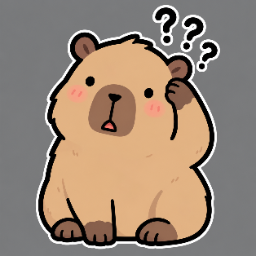
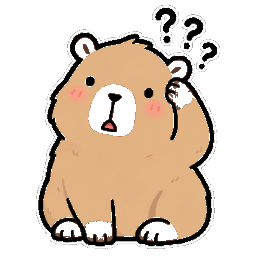
Capiverso e Capistop ganham fundo branco e cards próprios
Ícones com fundo branco (igual o Capibatman) em vez do cinza das
figurinhas originais. Na Lojinha, os dois jogos agora aparecem como
cards separados logo abaixo do Capibatman (sem a etapa intermediária
de "escolher o jogo") — cada um já abre direto a tela de criar/entrar
na sala daquele jogo específico.

diff --git a/js/app.js b/js/app.js
@@ -2645,15 +2645,8 @@ async function renderFriendsShop() {
         </div>
       </div>
     </div>
-    <div class="card" id="btn-open-game-hub" style="cursor:pointer;">
-      <div class="row" style="align-items:center; gap:10px;">
-        <div class="rm-ic cards" style="width:48px; height:48px;">${ROOM_GAME_ICON.cartas}</div>
-        <div style="flex:1;">
-          <div class="card-title" style="font-size:15px; margin-bottom:0;">Jogar com amigos</div>
-          <div class="hint-text" style="margin:0;">${GAME_LABEL.cartas} e ${GAME_LABEL.stop} · crie uma sala e chame a turma</div>
-        </div>
-      </div>
-    </div>
+    ${multiplayerGameCardHTML("cartas", "btn-open-capiverso-friends", "fique sem cartas antes dos outros")}
+    ${multiplayerGameCardHTML("stop", "btn-open-capistop-friends", "uma letra, pouco tempo, muitas respostas")}
 
     ${Object.entries(FRIEND_PERK_CATEGORIES).map(([catId, cat]) => `
       <div class="section-title">${cat.emoji} ${cat.label}</div>
@@ -2683,7 +2676,8 @@ async function renderFriendsShop() {
     ` : ""}
   `;
   $("#btn-open-star-battle-friends").addEventListener("click", () => renderStarBattleGame("amigos"));
-  $("#btn-open-game-hub").addEventListener("click", () => renderGameHub("amigos"));
+  $("#btn-open-capiverso-friends").addEventListener("click", () => renderGameHub("amigos", "cartas"));
+  $("#btn-open-capistop-friends").addEventListener("click", () => renderGameHub("amigos", "stop"));
   $("#friends-new-perk-btn").addEventListener("click", openNewCustomPerkModal);
   view.querySelectorAll("[data-redeem]").forEach((btn) => {
     btn.addEventListener("click", async () => {
@@ -2841,7 +2835,10 @@ function closeRoomChannels() {
   State.roomView = null;
 }
 
-async function renderGameHub(ctx) {
+// preselectedGame ("cartas"/"stop"): pulado o "escolha o jogo" e vai direto pra tela de
+// criar/entrar na sala daquele jogo — usado quando Capiverso/Capistop já aparecem como cards
+// separados na Lojinha, em vez de um hub combinado. Continua checando sala ativa primeiro.
+async function renderGameHub(ctx, preselectedGame) {
   if (ctx) State.roomCtx = ctx;
   const view = roomViewEl();
   view.innerHTML = `<div class="center-note">Carregando...</div>`;
@@ -2872,6 +2869,18 @@ async function renderGameHub(ctx) {
       return;
     }
   } catch (e) { /* sem sala ativa: segue pro hub normal */ }
+
+  if (preselectedGame) {
+    view.innerHTML = `
+      <div style="display:flex; align-items:center; gap:10px; margin-bottom:14px;">
+        <button class="btn btn-ghost btn-sm" id="btn-gamehub-back" style="flex:none; padding:9px 12px;">← Voltar</button>
+        <h2 style="font-family:'Baloo 2', sans-serif; font-size:19px; margin:0;">${gameIconImg(preselectedGame, 22)} ${GAME_LABEL[preselectedGame]}</h2>
+      </div>
+    `;
+    $("#btn-gamehub-back").addEventListener("click", () => roomBack());
+    openGameChoiceModal(preselectedGame);
+    return;
+  }
 
   view.innerHTML = `
     <div style="display:flex; align-items:center; gap:10px; margin-bottom:14px;">
@@ -6848,6 +6857,22 @@ async function renderShopHub() {
   });
 }
 
+// card de jogo multiplayer (Capiverso/Capistop) no mesmo estilo do card do Capibatman — usado
+// tanto no modo casal quanto na turma. btnId precisa ser único na tela.
+function multiplayerGameCardHTML(gameType, btnId, subtitle) {
+  return `
+    <div class="card" id="${btnId}" style="cursor:pointer;">
+      <div class="row" style="align-items:center; gap:10px;">
+        <img src="icons/${gameType === "cartas" ? "capiverso" : "capistop"}.png" alt="${GAME_LABEL[gameType]}" style="width:48px; height:48px; border-radius:12px; object-fit:cover; flex:none;" />
+        <div style="flex:1;">
+          <div class="card-title" style="font-size:15px; margin-bottom:0;">${GAME_LABEL[gameType]}</div>
+          <div class="hint-text" style="margin:0;">2 a 8 jogadores · ${subtitle}</div>
+        </div>
+      </div>
+    </div>
+  `;
+}
+
 async function renderShopGames() {
   view.innerHTML = `
     ${shopSubHeader("🎮 Jogos")}
@@ -6860,19 +6885,13 @@ async function renderShopGames() {
         </div>
       </div>
     </div>
-    <div class="card" id="btn-open-game-hub-casal" style="cursor:pointer;">
-      <div class="row" style="align-items:center; gap:10px;">
-        <div class="rm-ic cards" style="width:48px; height:48px;">${ROOM_GAME_ICON.cartas}</div>
-        <div style="flex:1;">
-          <div class="card-title" style="font-size:15px; margin-bottom:0;">Jogar a dois</div>
-          <div class="hint-text" style="margin:0;">${GAME_LABEL.cartas} e ${GAME_LABEL.stop} · crie uma sala e chame seu par</div>
-        </div>
-      </div>
-    </div>
+    ${multiplayerGameCardHTML("cartas", "btn-open-capiverso-casal", "fique sem cartas antes dos outros")}
+    ${multiplayerGameCardHTML("stop", "btn-open-capistop-casal", "uma letra, pouco tempo, muitas respostas")}
   `;
   wireShopBack();
   $("#btn-open-star-battle").addEventListener("click", () => renderStarBattleGame("casal"));
-  $("#btn-open-game-hub-casal").addEventListener("click", () => renderGameHub("casal"));
+  $("#btn-open-capiverso-casal").addEventListener("click", () => renderGameHub("casal", "cartas"));
+  $("#btn-open-capistop-casal").addEventListener("click", () => renderGameHub("casal", "stop"));
 }
 
 async function renderShopPerks() {
